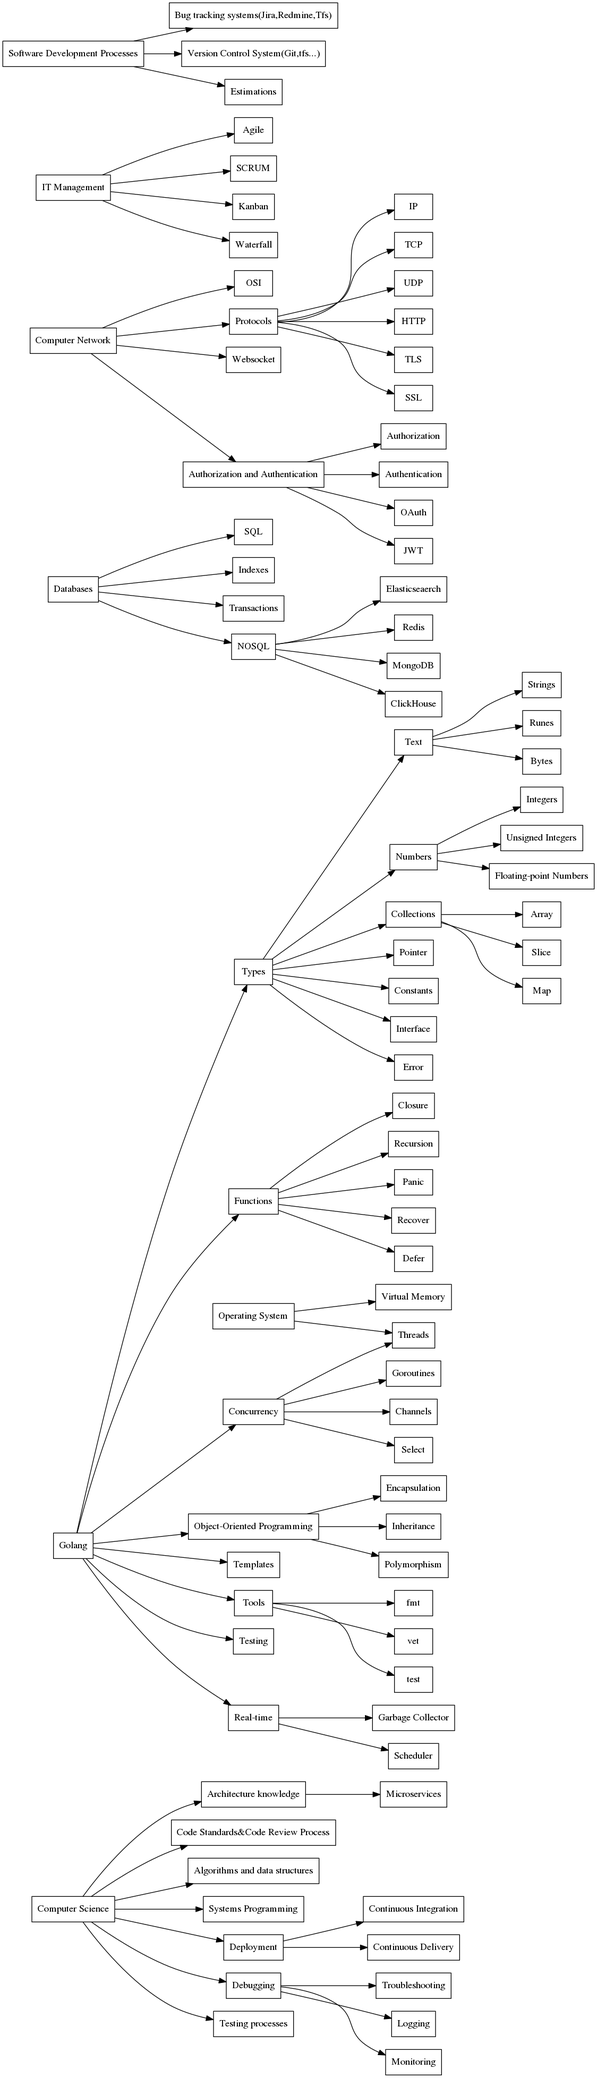
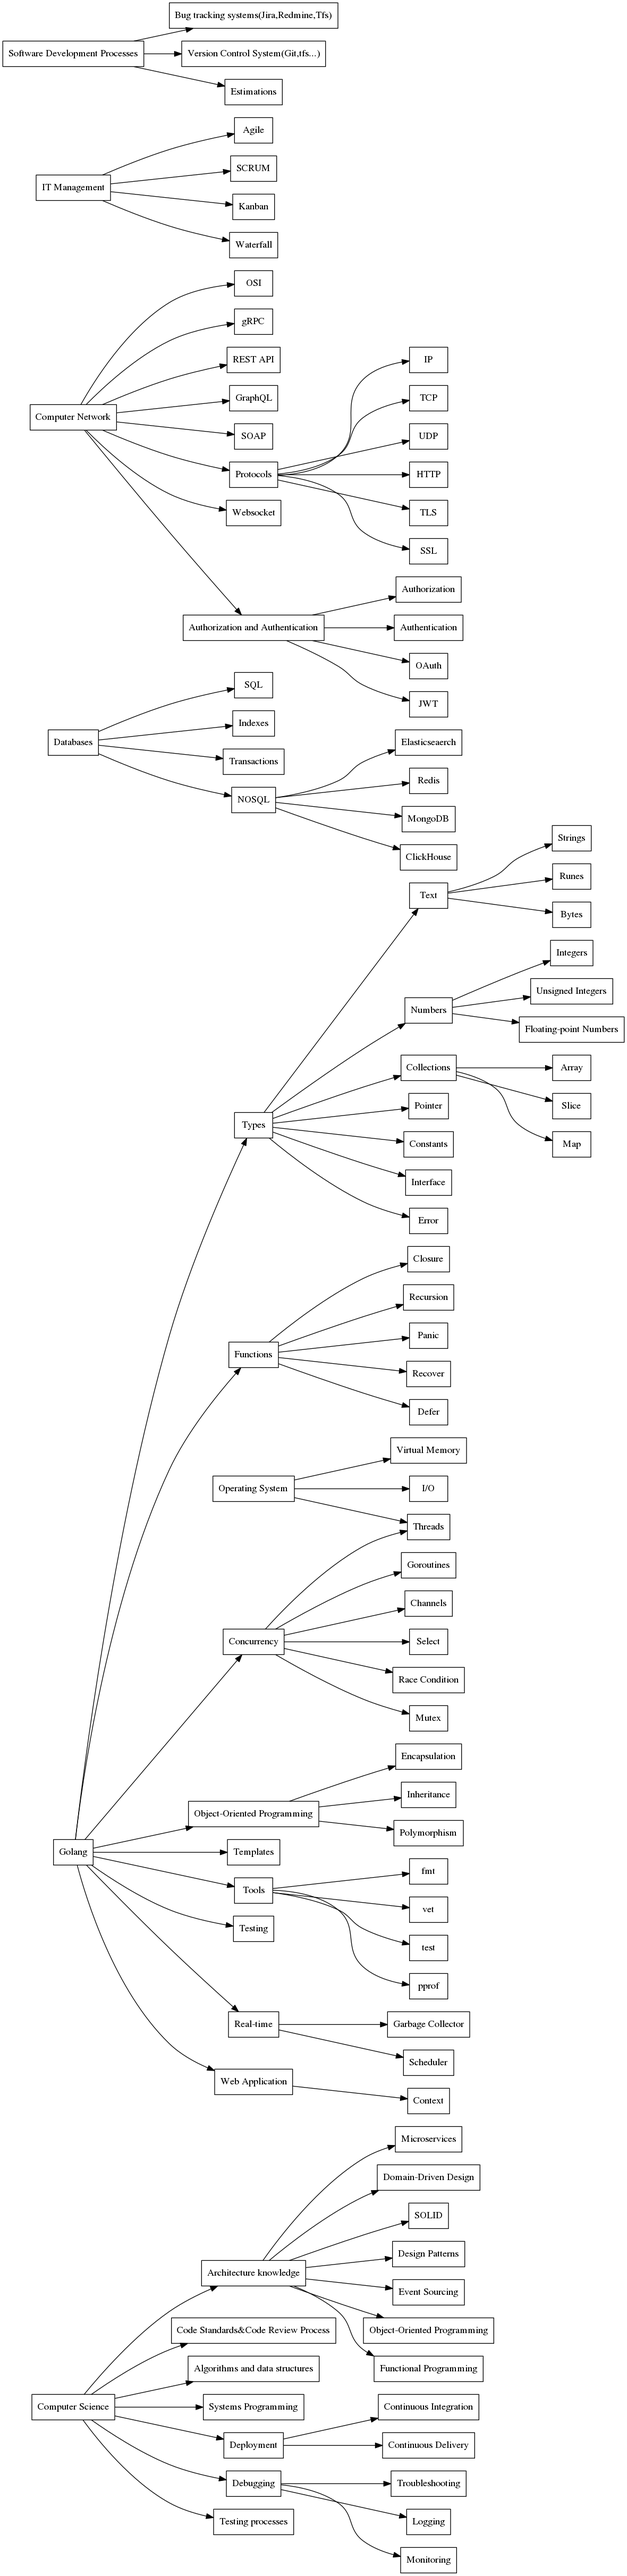
update networks, go, arhitectures

diff --git a/README.md b/README.md
@@ -8,3 +8,5 @@ Improvements are welcomed.
 ## Links
 - [Go Developer Roadmap](https://github.com/Alikhll/golang-developer-roadmap)
 - [Programmer Competency Matrix](http://sijinjoseph.com/programmer-competency-matrix/)
+- [Roadmaps for Developers: Backend Developer](https://roadmap.sh/backend)
+- [Roadmap to becoming a Software Engineer 2018 Edition with Industry Insights: Back-end Roadmap](https://github.com/fauzanbaig/software-engineer-roadmap#-back-end-roadmap)
